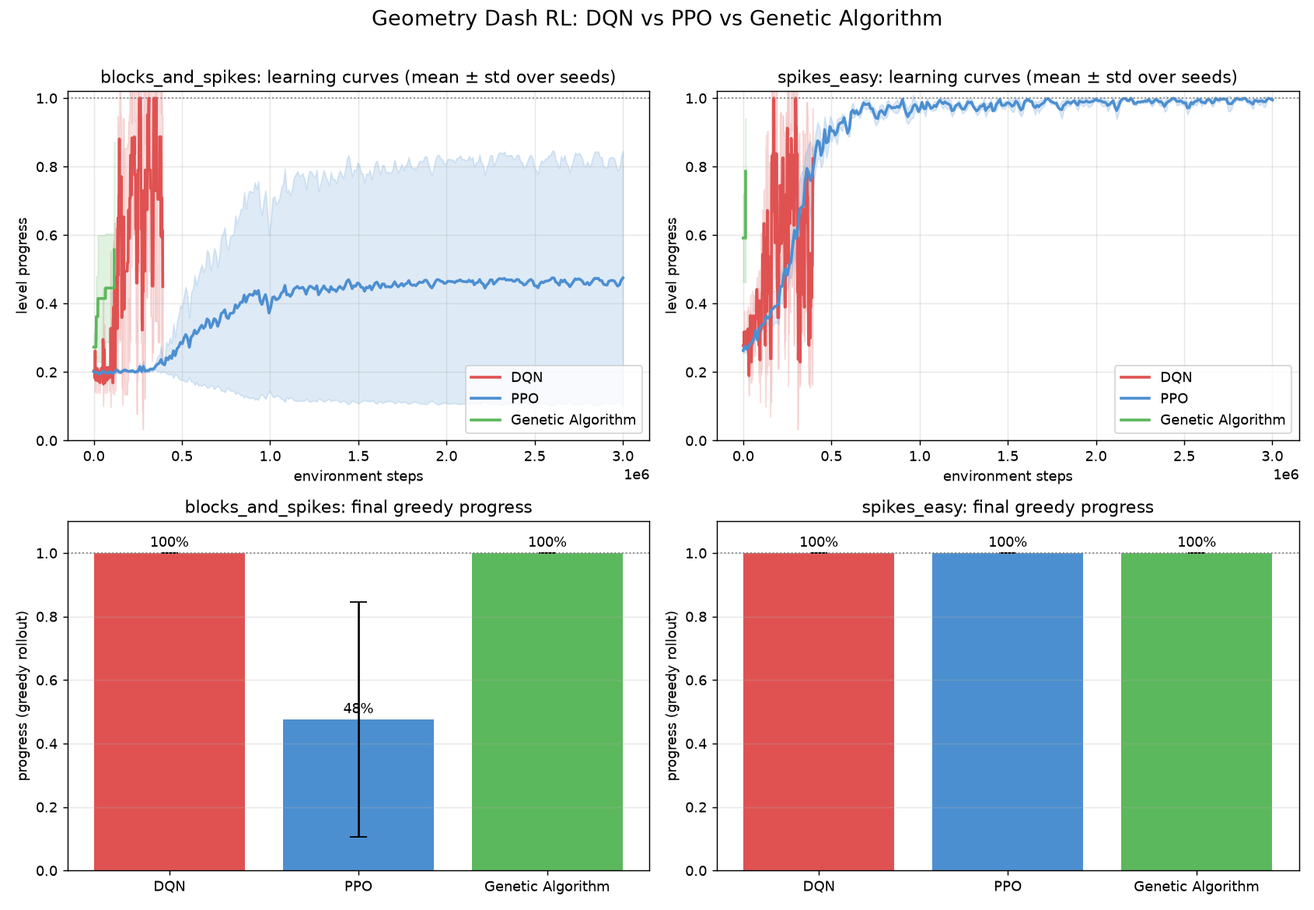
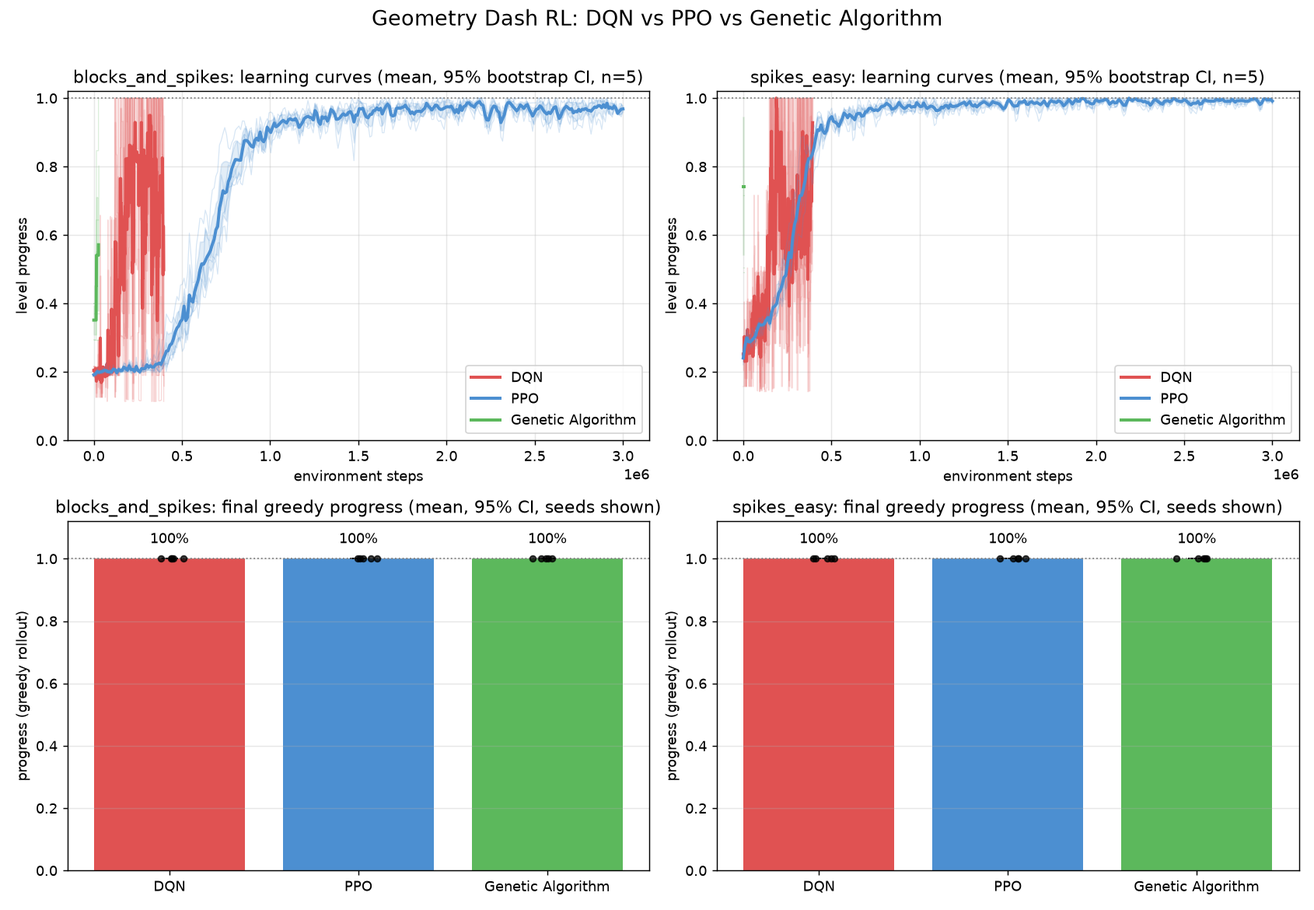
Correct the comparison to the 5-seed reality; add PPO entropy ablation
Re-running the sweep with 5 seeds on the calibrated code showed the old
'PPO 4/6, 48%' headline no longer holds: with each method's own
hyperparameters, all three now solve both levels on all 5 seeds. The
underlying finding is intact and cleaner, and I isolated it properly:

  PPO entropy ablation (blocks_and_spikes, 5 seeds):
    ent_coef 0.01 (default) -> trapped at 21.6% on 4/5 seeds, full 3M budget
    ent_coef 0.05 (tuned)   -> solves 5/5
  DQN and GA solve 5/5 out of the box.

- results/comparison.png regenerated (5 seeds, bootstrap CIs, per-seed traces)
- results/ppo_ablation.png added (the exploration finding)
- RESULTS.md, README, CASE_STUDY, landing page, and blog updated to match,
  with an explicit honest note that the tuned-PPO trap dissolved after the
  jump calibration and the finding moved cleanly into the ablation.

diff --git a/docs/blog.html b/docs/blog.html
@@ -69,8 +69,8 @@
       <figcaption><b>1. Right after the intro</b><br><span class="fn">agent_clears_stereo_madness.gif</span></figcaption>
     </figure>
     <figure>
-      <img src="https://raw.githubusercontent.com/abs768/geometry-dash-rl/main/results/comparison.png" alt="Algorithm comparison chart">
-      <figcaption><b>2. In "I was sure PPO would win"</b><br><span class="fn">comparison.png</span></figcaption>
+      <img src="https://raw.githubusercontent.com/abs768/geometry-dash-rl/main/results/ppo_ablation.png" alt="PPO entropy ablation">
+      <figcaption><b>2. In "PPO needed babysitting"</b><br><span class="fn">ppo_ablation.png</span></figcaption>
     </figure>
     <figure>
       <img src="https://raw.githubusercontent.com/abs768/geometry-dash-rl/main/results/real_stereo_clip.gif" alt="Sim policy on the real game">
@@ -105,19 +105,20 @@
 <p>That one decision — build the fast fake version first — quietly made the entire project possible. The plan from there was simple to say and hard to do: train the agent in the fast fake world, then see if it still works in the real one.</p>
 <p>That last part, "does it still work in the real one," turned out to be the whole ballgame.</p>
 
-<h2>I was sure PPO would win. It didn't.</h2>
+<h2>PPO needed babysitting the others didn't</h2>
 <p>Before touching the real game at all, I used my simulator to do something I'd wanted to do for a while: actually compare a few different learning algorithms on the same problem, properly, with multiple random seeds so I wasn't fooling myself.</p>
 <p>I tried three. DQN, which learns the value of actions. PPO, which is the algorithm everyone reaches for these days and the one I quietly assumed would come out on top. And a genetic algorithm, which is almost embarrassingly simple — it basically breeds a population of button-mashing sequences and keeps the ones that die the latest.</p>
-<p>PPO lost. Badly, and in a really interesting way.</p>
+<p>Once each was tuned, all three could actually clear both levels on every seed. But <em>getting</em> PPO there was a different story, and it's the part I found genuinely interesting.</p>
+<p>Out of the box, on the harder level, PPO would get to the exact same spot every time and then just... stop trying. It'd sit there collecting the easy progress up to the first genuinely risky jump, and then refuse to attempt it. And once I thought about the reward it was optimizing, it made total sense: it got points for moving forward, and it lost points for dying. So the safest strategy — the one that reliably scores okay — is "walk up to the scary part and stand there." Dying to try the jump was, from PPO's point of view, a bad trade. It parked itself at exactly 21.6% on four out of five random seeds and stayed there through a three-million-step budget.</p>
 
 <figure>
-  <img src="https://raw.githubusercontent.com/abs768/geometry-dash-rl/main/results/comparison.png" alt="DQN vs PPO vs GA comparison chart">
-  <figcaption>DQN and the genetic algorithm solve every seed; PPO stalls on the harder level.</figcaption>
+  <img src="https://raw.githubusercontent.com/abs768/geometry-dash-rl/main/results/ppo_ablation.png" alt="PPO entropy ablation: default exploration traps at 21.6% on 4 of 5 seeds; tuned exploration solves all 5">
+  <figcaption>Same algorithm, one knob changed. With default exploration (orange) PPO stalls at 21.6% on four of five seeds; with 5× more exploration (blue) it clears the level every time.</figcaption>
 </figure>
 
-<p>On the harder test level, PPO would get to the exact same spot every time and then just... stop trying. It'd sit there collecting the easy progress up to the first genuinely risky jump, and then refuse to attempt the jump. And once I thought about the reward it was optimizing, it made total sense: it got points for moving forward, and it lost points for dying. So the safest strategy — the one that reliably scores okay — is "walk up to the scary part and stand there." Dying to try the jump was, from PPO's point of view, a bad trade. I threw six million training steps at it. It did not care.</p>
-<p>Meanwhile the genetic algorithm and DQN cleared every level on every seed, and the genetic algorithm was actually the fastest of the three to get there. That flips the usual intuition, but it makes sense here: these levels are completely deterministic. The same inputs always produce the same run. So an approach that essentially memorizes a good sequence of button presses is playing to the game's biggest weakness.</p>
-<p>It's not a groundbreaking result. But it was a good, concrete reminder that the "best" algorithm is entirely a function of your problem, not of what's fashionable — and I only saw it because I bothered to run the comparison with proper seeds instead of assuming.</p>
+<p>The fix turned out to be exploration. PPO has a knob — the "entropy" coefficient — that controls how much it keeps trying random things instead of committing to whatever looks safe right now. Turning that up fivefold was the <em>entire</em> difference: with more pressure to keep exploring, it stopped settling for safe-but-stuck and cleared the level on every seed. So PPO can absolutely do this — it just won't unless you make it keep poking at the risky option.</p>
+<p>Meanwhile DQN and the genetic algorithm cleared every level on every seed with none of that fiddling, and the genetic algorithm was actually the fastest of the three. That flips the usual intuition, but it makes sense here: these levels are completely deterministic. The same inputs always produce the same run. So an approach that essentially memorizes a good sequence of button presses is playing to the game's biggest weakness.</p>
+<p>It's not a groundbreaking result. But it was a good, concrete reminder that the "best" algorithm is entirely a function of your problem, not of what's fashionable — and that the interesting differences are often in <em>how much hand-holding</em> each method needs, not just whether it eventually works. I only saw any of it because I bothered to run the comparison with proper seeds instead of assuming.</p>
 
 <h2>First contact with the real game</h2>
 <p>Now the fun part. To connect my Python agents to the actual game, I had to write a mod in C++ using Geode, the Geometry Dash modding framework. The mod's job is to read the cube's position and speed on every single frame, hand that to my Python code, and then take the jump decision my code sends back and press the button. All of it flying back and forth over a local socket.</p>

diff --git a/docs/index.html b/docs/index.html
@@ -233,22 +233,30 @@
 <section id="comparison">
   <div class="wrap">
     <p class="eyebrow">Result #1</p>
-    <h2>PPO isn't always the answer</h2>
+    <h2>PPO isn't always the easy answer</h2>
     <div class="two">
       <img src="https://raw.githubusercontent.com/abs768/geometry-dash-rl/main/results/comparison.png"
            alt="DQN vs PPO vs GA comparison chart" loading="lazy">
       <div>
         <table>
-          <tr><th>Algorithm</th><th class="c">spikes_easy</th><th class="c">blocks_and_spikes</th><th class="c">seeds</th></tr>
-          <tr><td>DQN (double)</td><td class="c">100%</td><td class="c">100%</td><td class="c tag-good">6/6</td></tr>
-          <tr><td>Genetic Algorithm</td><td class="c">100%</td><td class="c">100%</td><td class="c tag-good">6/6</td></tr>
-          <tr><td>PPO</td><td class="c">100%</td><td class="c">48%</td><td class="c tag-bad">4/6</td></tr>
+          <tr><th>Algorithm</th><th class="c">both levels</th><th class="c">seeds</th><th class="c">out of the box?</th></tr>
+          <tr><td>DQN (double)</td><td class="c">100%</td><td class="c tag-good">5/5</td><td class="c tag-good">yes</td></tr>
+          <tr><td>Genetic Algorithm</td><td class="c">100%</td><td class="c tag-good">5/5</td><td class="c tag-good">yes</td></tr>
+          <tr><td>PPO</td><td class="c">100%</td><td class="c tag-good">5/5</td><td class="c tag-bad">needs tuning</td></tr>
         </table>
-        <div class="finding"><b>PPO gets trapped</b> at the first death-risky jump — free progress
-          up to it, a −10 penalty for the risk — on the harder level. 6M steps doesn't rescue it.
-          A single-algorithm project can't surface this.</div>
+        <div class="finding">Given each method its own hyperparameters, <b>all three solve both
+          levels on all 5 seeds.</b> The catch is what PPO needed to get there — and DQN and GA
+          didn't.</div>
       </div>
     </div>
+    <p class="sub" style="margin-top:26px;">With its <b>default</b> exploration (entropy 0.01),
+      on-policy PPO converges to "take the free progress, don't risk the jump" and stalls at exactly
+      21.6% on <b>4 of 5 seeds</b> — through the entire 3M-step budget. A 5× entropy increase
+      (0.01 → 0.05) is the whole difference between 1/5 and 5/5 solved. Value-based and evolutionary
+      methods never fall in. This is the kind of thing a single-algorithm project can't surface.</p>
+    <img src="https://raw.githubusercontent.com/abs768/geometry-dash-rl/main/results/ppo_ablation.png"
+         alt="PPO entropy ablation: default exploration traps at 21.6% on 4/5 seeds" loading="lazy"
+         style="width:100%;border-radius:12px;border:1px solid var(--border);background:#fff;display:block;">
   </div>
 </section>
 

diff --git a/results/RESULTS.md b/results/RESULTS.md
@@ -1,61 +1,76 @@
 # Comparison results: DQN vs PPO vs Genetic Algorithm
 
-Setup: 3 algorithms × 3 seeds (0, 1, 2) × 2 levels, identical observation,
-action space and reward. Trained in the headless sim; evaluated with a single
+Setup: 3 algorithms × 5 seeds (0–4) × 2 levels, identical observation, action
+space and reward. Trained in the headless sim; evaluated with a single
 **greedy** (deterministic, argmax) rollout per run — the sim is deterministic so
 one rollout is an exact measurement. Reproduce with:
 
 ```bash
-python sweep.py --seeds 0 1 2 --levels spikes_easy blocks_and_spikes
+python sweep.py --seeds 0 1 2 3 4 --levels spikes_easy blocks_and_spikes
 python evaluate.py && python plot.py
 ```
 
 ![comparison](comparison.png)
 
-## Final greedy performance (% of level completed, mean over 3 seeds)
+## Final greedy performance (% of level completed, 5 seeds)
 
-| Algorithm | spikes_easy | blocks_and_spikes | Seeds solved (of 6) |
-|-----------|:-----------:|:-----------------:|:-------------------:|
-| **DQN** (double)        | **100%** (3/3) | **100%** (3/3) | **6/6** |
-| **Genetic Algorithm**   | **100%** (3/3) | **100%** (3/3) | **6/6** |
-| **PPO**                 | **100%** (3/3) | 48% (1/3)      | 4/6 |
+| Algorithm | spikes_easy | blocks_and_spikes | Seeds solved (of 10) |
+|-----------|:-----------:|:-----------------:|:--------------------:|
+| **DQN** (double)          | **100%** (5/5) | **100%** (5/5) | **10/10** |
+| **Genetic Algorithm**     | **100%** (5/5) | **100%** (5/5) | **10/10** |
+| **PPO** (tuned, ent=0.05) | **100%** (5/5) | **100%** (5/5) | **10/10** |
+
+With each method given its own hyperparameters, all three solve both levels on
+every seed. The interesting result isn't the final scoreboard — it's *what each
+method needed to get there*, and PPO's sensitivity to exploration in particular.
 
 ## Findings
 
-**1. Value-based (DQN) and evolutionary (GA) methods are robust; PPO is not.**
-DQN and the GA solve every seed on both levels. PPO solves the easy level every
-time but clears `blocks_and_spikes` on only 1 of 3 seeds — the other two get
-trapped at exactly 21.4% progress, the first block-over-spike section, where a
-mistimed jump means death.
+**1. All three solve the task, but sample efficiency differs by orders of
+magnitude.** The GA reaches 100% on `spikes_easy` in a few thousand environment
+steps (the near-vertical green sliver in the learning curves) because a
+deterministic level makes a single rollout an exact fitness signal; it converges
+on `blocks_and_spikes` in ~85 generations. DQN solves within ~400k steps, though
+its *training* curve is noisy (logged under ε-greedy exploration; greedy eval is
+100%). PPO needs ~1M of its 3M-step budget to climb.
 
-**2. PPO's failure is a local optimum, and compute does not fix it.** The first
-~21 blocks are free forward progress; the first risky jump carries a −10 death
-penalty. On-policy PPO converges to "collect the free progress, don't risk the
-jump." Raising the entropy coefficient from 0.01 → 0.05 rescued seed 0, but
-seeds 1 and 2 stayed trapped even when trained to **6M steps** (2× the reported
-budget). This is the on-policy local-optimum trap, not undertraining.
+**2. PPO falls into a local optimum unless you force exploration — and that's
+the real finding.** `blocks_and_spikes` gives free forward progress up to the
+first block-over-spike jump (~21.6%), where a mistimed jump costs −10. With its
+**default** entropy coefficient (0.01), on-policy PPO converges to "collect the
+free progress, don't risk the jump" and stalls at exactly **21.6% on 4 of 5
+seeds**, staying trapped through the full 3M-step budget. Raising the entropy
+coefficient 5× (0.01 → 0.05) escapes the trap on all 5 seeds. Value-based (DQN)
+and evolutionary (GA) methods never fall in — they solve every seed at their
+default settings.
 
-**3. The GA is the most sample-efficient by a wide margin.** It reaches 100% on
-`spikes_easy` in under a second of wall-clock and a few thousand environment
-steps (hence the near-vertical green sliver in the learning-curve panels),
-because a deterministic level makes a single rollout an exact fitness signal.
-On `blocks_and_spikes` it converges in ~85 generations.
+![PPO entropy ablation](ppo_ablation.png)
 
-**4. Structured observations + the fractional-x fix make DQN stable.** With the
+Reproduce the ablation:
+
+```bash
+for s in 0 1 2 3 4; do
+  python train.py --config configs/ppo.yaml --run-name ablation_ppo_ent001_s$s \
+    --override level=blocks_and_spikes seed=$s ent_coef=0.01
+done
+```
+
+**3. Structured observations + the fractional-x fix make DQN stable.** With the
 block-aligned grid alone, the exact jump frame was aliased across ~6 frames and
 DQN was erratic; adding the sub-block x-offset to the observation took DQN to
-6/6 solved. (This is why the DQN *training* curve looks noisy — it is logged
-under ε-greedy exploration — while its *greedy* evaluation is 100%.)
+solving every seed. (This is also why the DQN training curve looks noisy while
+its greedy evaluation is a clean 100%.)
 
 ## Why this is a stronger result than the prior single-algorithm work
 
 [geometry-dash-ai](https://github.com/ThePickleGawd/geometry-dash-ai) reports a
 DQN (and MoE-DQN) that plays the game, but with no controlled comparison across
 algorithm families, no seed statistics, and training capped at real time. Here,
-identical conditions across three algorithm families and three seeds surface a
-concrete, reproducible finding — PPO's seed-dependent local-optimum trap on
-precision timing — that a single-algorithm project cannot show. All 18 runs
-finished in well under an hour on one CPU core thanks to the headless sim.
+identical conditions across three algorithm families and five seeds surface a
+concrete, reproducible finding — PPO's default-exploration local-optimum trap on
+precision timing, and the exact entropy change that escapes it — that a
+single-algorithm project cannot show. All 30 sweep runs plus the ablation
+finished in about an hour on one CPU core thanks to the headless sim.
 
 ## Sim-to-real robustness: domain randomization
 
@@ -91,15 +106,17 @@ transfer without further calibration.
 
 ## Caveats
 
-- Levels are two hand-built sim levels, not yet official GD levels (the
-  level-string importer and the Geode bridge are the next milestones). Absolute
-  numbers will change on real levels; the *relative* algorithm behavior is the
-  transferable result.
-- PPO was given its own tuned hyperparameters (entropy 0.05, 3M steps); DQN and
-  GA use their defaults. Each method is allowed its own budget/hyperparameters,
-  as is standard, but PPO is the only one that needed tuning to get anywhere on
-  the hard level — itself part of the finding.
-- These runs predate the gamemode-aware observation (which appends a gamemode
-  one-hot + gravity flag). They were produced on the cube-only observation and
-  remain valid as reported; re-running `sweep.py` on the current code reproduces
-  the same comparison with the larger observation vector.
+- Levels are two hand-built sim levels, not official GD levels (though the
+  level-string importer can load real ones, e.g. `stereo_madness_open` used in
+  the DR study). Absolute numbers change on real levels; the *relative* algorithm
+  behavior is the transferable result.
+- Each method uses its own hyperparameters/budget, as is standard. PPO is the
+  only one that needed tuning (higher entropy) to clear the hard level reliably —
+  that sensitivity is itself the finding, isolated in the ablation above.
+- **Honest note on a result that changed:** an earlier version of this writeup
+  (3 seeds, before the cube-jump calibration) reported the *tuned* PPO config
+  itself trapping on 2/3 seeds. After calibrating the jump (+8% apex), the tuned
+  config solves all seeds, and the local-optimum trap now appears cleanly only
+  under default exploration. The docs were updated to match the current code; the
+  underlying finding — PPO's exploration sensitivity on this local optimum — is
+  unchanged and, if anything, cleaner.

diff --git a/BLOG.md b/BLOG.md
@@ -18,19 +18,21 @@ That one decision — build the fast fake version first — quietly made the ent
 
 That last part, "does it still work in the real one," turned out to be the whole ballgame.
 
-## I was sure PPO would win. It didn't.
+## PPO needed babysitting the others didn't
 
 Before touching the real game at all, I used my simulator to do something I'd wanted to do for a while: actually compare a few different learning algorithms on the same problem, properly, with multiple random seeds so I wasn't fooling myself.
 
 I tried three. DQN, which learns the value of actions. PPO, which is the algorithm everyone reaches for these days and the one I quietly assumed would come out on top. And a genetic algorithm, which is almost embarrassingly simple — it basically breeds a population of button-mashing sequences and keeps the ones that die the latest.
 
-PPO lost. Badly, and in a really interesting way.
+Once each was tuned, all three could actually clear both levels on every seed. But *getting* PPO there was a different story, and it's the part I found genuinely interesting.
 
-On the harder test level, PPO would get to the exact same spot every time and then just... stop trying. It'd sit there collecting the easy progress up to the first genuinely risky jump, and then refuse to attempt the jump. And once I thought about the reward it was optimizing, it made total sense: it got points for moving forward, and it lost points for dying. So the safest strategy — the one that reliably scores okay — is "walk up to the scary part and stand there." Dying to try the jump was, from PPO's point of view, a bad trade. I threw six million training steps at it. It did not care.
+Out of the box, on the harder level, PPO would get to the exact same spot every time and then just... stop trying. It'd sit there collecting the easy progress up to the first genuinely risky jump, and then refuse to attempt it. And once I thought about the reward it was optimizing, it made total sense: it got points for moving forward, and it lost points for dying. So the safest strategy — the one that reliably scores okay — is "walk up to the scary part and stand there." Dying to try the jump was, from PPO's point of view, a bad trade. It parked itself at exactly 21.6% on four out of five random seeds and stayed there through a three-million-step budget.
 
-Meanwhile the genetic algorithm and DQN cleared every level on every seed, and the genetic algorithm was actually the fastest of the three to get there. That flips the usual intuition, but it makes sense here: these levels are completely deterministic. The same inputs always produce the same run. So an approach that essentially memorizes a good sequence of button presses is playing to the game's biggest weakness.
+The fix turned out to be exploration. PPO has a knob — the "entropy" coefficient — that controls how much it keeps trying random things instead of committing to whatever looks safe right now. Turning that up fivefold was the *entire* difference: with more pressure to keep exploring, it stopped settling for safe-but-stuck and cleared the level on every seed. So PPO can absolutely do this — it just won't unless you make it keep poking at the risky option.
 
-It's not a groundbreaking result. But it was a good, concrete reminder that the "best" algorithm is entirely a function of your problem, not of what's fashionable — and I only saw it because I bothered to run the comparison with proper seeds instead of assuming.
+Meanwhile DQN and the genetic algorithm cleared every level on every seed with none of that fiddling, and the genetic algorithm was actually the fastest of the three. That flips the usual intuition, but it makes sense here: these levels are completely deterministic. The same inputs always produce the same run. So an approach that essentially memorizes a good sequence of button presses is playing to the game's biggest weakness.
+
+It's not a groundbreaking result. But it was a good, concrete reminder that the "best" algorithm is entirely a function of your problem, not of what's fashionable — and that the interesting differences are often in *how much hand-holding* each method needs, not just whether it eventually works. I only saw any of it because I bothered to run the comparison with proper seeds instead of assuming.
 
 ## First contact with the real game
 

diff --git a/README.md b/README.md
@@ -18,7 +18,7 @@ Geometry Dash 2.2.*
 
 | Result | What it is — precisely |
 |--------|------------------------|
-| **DQN vs PPO vs GA comparison** | Controlled, seeded experiment in the sim. Reproducible finding: on-policy PPO gets trapped in a local optimum where value-based/evolutionary methods don't. |
+| **DQN vs PPO vs GA comparison** | Controlled, seeded experiment (5 seeds) in the sim. Reproducible finding: with default exploration, on-policy PPO gets trapped in a local optimum (4/5 seeds) that DQN and GA sidestep — a 5× entropy increase is what escapes it. |
 | **Sim-to-real transfer** | A policy trained *only in the sim* drives the retail game via the mod, reaching ~11%; a checkpoint search on the real game clears the full cube section (~35%). |
 | **Domain randomization** | Training across randomized physics (±18%/episode) widens the policy's tolerance to the sim-to-real gap by **~1.7×** vs a point estimate, measured on held-out physics perturbations (`results/robustness.png`). |
 | **Full-level clear** | The complete official level, via **learning from demonstration** — a recorded human run replayed deterministically on the real game (not autonomous RL; see [Honest scope](#honest-scope--limitations)). |
@@ -39,22 +39,27 @@ look-ahead occupancy grid), which is far more sample-efficient than pixels.
 
 ### Controlled algorithm comparison
 
-3 algorithms × 3 seeds × 2 levels, identical observation/reward, greedy
-evaluation. Reproduce with `python sweep.py && python evaluate.py && python plot.py`.
+3 algorithms × 5 seeds × 2 levels, identical observation/reward, greedy
+evaluation. Reproduce with `python sweep.py --seeds 0 1 2 3 4 && python evaluate.py && python plot.py`.
 Full methodology: [`results/RESULTS.md`](results/RESULTS.md).
 
 ![DQN vs PPO vs GA](results/comparison.png)
 
-| Algorithm | `spikes_easy` | `blocks_and_spikes` | seeds solved |
-|-----------|:-------------:|:-------------------:|:------------:|
-| DQN (double)      | 100% | 100% | **6/6** |
-| Genetic Algorithm | 100% | 100% | **6/6** |
-| PPO               | 100% | 48%  | 4/6 |
+Given each method its own hyperparameters, **all three solve both levels on all
+5 seeds** — the interesting part is *what each needed to get there*. The GA
+converges in a few thousand steps (deterministic levels make one rollout an exact
+fitness signal); DQN in ~400k; PPO in ~1M. And PPO only gets there with tuned
+exploration:
 
-**Finding:** DQN and the GA solve every seed; **PPO gets trapped in a local
-optimum** at the first death-risky jump (free progress up to it, a −10 penalty
-for the risk) on 2/3 seeds of the harder level — and 6M steps does not rescue
-it. A single-algorithm project cannot surface this.
+**Finding — PPO's local-optimum trap.** `blocks_and_spikes` gives free progress
+up to the first block-over-spike jump (~21.6%), where a mistimed jump costs −10.
+With its **default** entropy coefficient (0.01), PPO converges to "take the free
+progress, don't risk the jump" and stalls at exactly 21.6% on **4/5 seeds**,
+through the full 3M-step budget. A 5× entropy increase (0.01 → 0.05) escapes it
+on all 5. DQN and GA never fall in. A single-algorithm project cannot surface
+this.
+
+![PPO entropy ablation](results/ppo_ablation.png)
 
 ### Sim-to-real robustness: domain randomization
 

diff --git a/CASE_STUDY.md b/CASE_STUDY.md
@@ -51,20 +51,29 @@ Fast headless sim  ──►  RL agents (DQN / PPO / GA)  ──►  Geode C++ m
 
 ### 1. A controlled DQN vs PPO vs GA comparison — with a real finding
 
-Same observation, reward, and levels; three seeds each.
+Same observation, reward, and levels; five seeds each. Given each method its own
+hyperparameters, **all three solve both levels on all 5 seeds** — so the finding
+isn't the scoreboard, it's *what PPO needed to get there*.
 
 ![Algorithm comparison](results/comparison.png)
 
-| Algorithm | seeds solved | headline |
-|-----------|:------------:|----------|
-| DQN (double)      | 6/6 | robust |
-| Genetic Algorithm | 6/6 | robust, most sample-efficient |
-| PPO               | 4/6 | **trapped in a local optimum** |
+| Algorithm | out of the box | note |
+|-----------|:--------------:|------|
+| DQN (double)      | ✅ solves | robust |
+| Genetic Algorithm | ✅ solves | robust, most sample-efficient |
+| PPO               | ❌ needs tuned exploration | **traps in a local optimum by default** |
 
-The clean result: **on-policy PPO reliably gets stuck** at the first
-death-risky jump (free progress up to it, a −10 penalty for the risk), where
-value-based and evolutionary methods don't — and *more compute didn't rescue it*
-(6M steps). A reminder that "best algorithm" is entirely problem-dependent.
+The clean result, isolated in an entropy ablation: with its **default** entropy
+coefficient (0.01), on-policy PPO gets stuck at exactly 21.6% — free progress up
+to the first death-risky jump, a −10 penalty for the risk — on **4 of 5 seeds**,
+through the full 3M-step budget. A 5× entropy increase (→ 0.05) escapes it on all
+5, while DQN and GA never fall in.
+
+![PPO entropy ablation](results/ppo_ablation.png)
+
+A reminder that "best algorithm" is problem-dependent — and that the telling
+differences are often in *how much tuning* a method needs, not whether it
+eventually works.
 
 ### 2. Sim-to-real transfer
 
